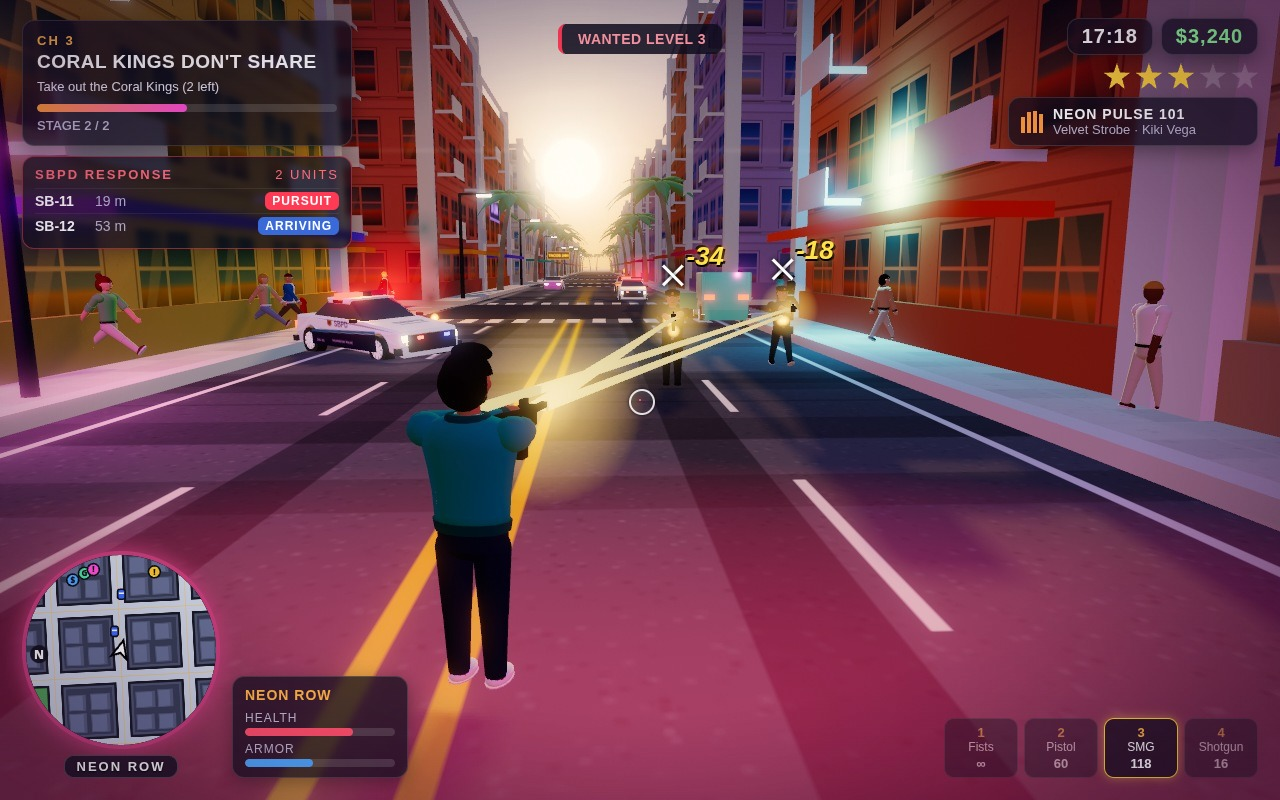
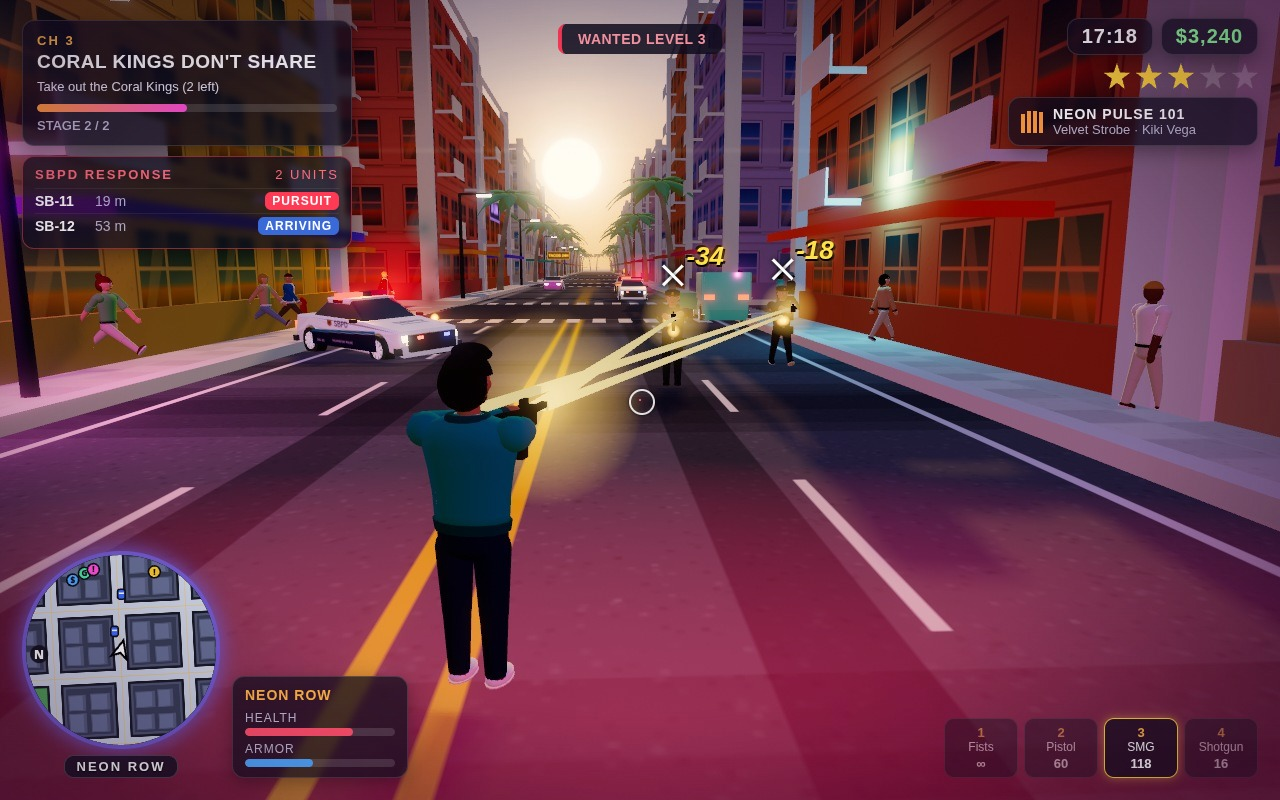
On-foot shot: tamer low-sun bloom and exposure, softer cyan wall light so officers and neon read

diff --git a/game/src/shots/screenshotScenes.js b/game/src/shots/screenshotScenes.js
@@ -62,7 +62,7 @@ function onfoot(api) {
   const tc = (key, x, dir, col) => { const c = placeTraffic('x', 7, x, dir, key, 'traffic', col); c.nav.spd = 6; return c; };
   tc('marlin', -128, 1, 0xf2c230); tc('rumble', -118, -1, 0xff4fd8);
   [[-205, 1, 1], [-198, -1, -1], [-192, 1, 1], [-186, -1, 1], [-181, 1, -1], [-176, -1, 1], [-170, 1, 1], [-164, -1, -1], [-158, 1, 1], [-209, -1, 1], [-178, -1, -1], [-168, 1, -1]].forEach(([x, s, d], i) => { const a = spawnPed('x', 7, x, s, d); a.scared = 6; a.nav.dir = d; animateWalk(a.mesh, i * 1.7, 0.95, false); a.mesh.position.y = 0.25; a.y = 0.25; });
-  for (const [c, x, z] of [[0xff4fd8, -192, z0 - 9], [0x4fd8ff, -180, z0 + 9], [0xffa030, -168, z0 - 9], [0xff4fd8, -206, z0 + 9]]) { const L = new THREE.PointLight(c, 140, 42, 2); L.position.set(x, 5, z); G.scene.add(L); }
+  for (const [c, x, z] of [[0xff4fd8, -192, z0 - 9], [0x4fd8ff, -180, z0 + 9], [0xffa030, -168, z0 - 9], [0xff4fd8, -206, z0 + 9]]) { const L = new THREE.PointLight(c, c === 0x4fd8ff ? 70 : 140, 42, 2); L.position.set(x, 5, z); G.scene.add(L); }
   setStars(3); G.wanted.heat = 3.2; fakeMission(2, 1, 'Take out the Coral Kings (2 left)', 0);
   for (const c of G.cars) { c.mesh.position.set(c.x, c.mesh.position.y, c.z); }
   updateSirens(0.1);
@@ -71,6 +71,8 @@ function onfoot(api) {
   tracer(gx, 1.38, gz, -187.9, 1.3, z0 + 2.4); sparks(-187.9, 1.3, z0 + 2.4, 6); tracer(gx, 1.38, gz, -184.9, 1.2, z0 + 5.2); sparks(-184.9, 1.1, z0 + 5.2, 4);
   sparks(-180, 0.9, z0 - 3.5, 10); sparks(-178.6, 0.6, z0 - 5.6, 6); smoke(-178.9, 1.4, z0 - 3.8, 0x555555); smoke(-178.6, 2.4, z0 - 3.6, 0x666666); smoke(-179, 3.4, z0 - 3.9, 0x777777);
   G.shake = 0; G.toasts.push({ text: 'WANTED LEVEL 3', kind: 'wanted', t: 9 });
+  // tame the low sun's bloom down the street so the officers and neon read; flashes and tracers are far brighter and keep theirs
+  G.exposure = 1.12; if (G.post) Object.assign(G.post.params, { bloom: 0.42, threshold: 1.15 });
   rig.mode = 'auto'; finish(api);
   floatText(cops[0].x, 1.5, cops[0].z, '-34', 'hit'); floatText(cops[1].x, 1.5, cops[1].z, '-18', 'hit'); layoutFloaters(0); }
 function map(api) {
